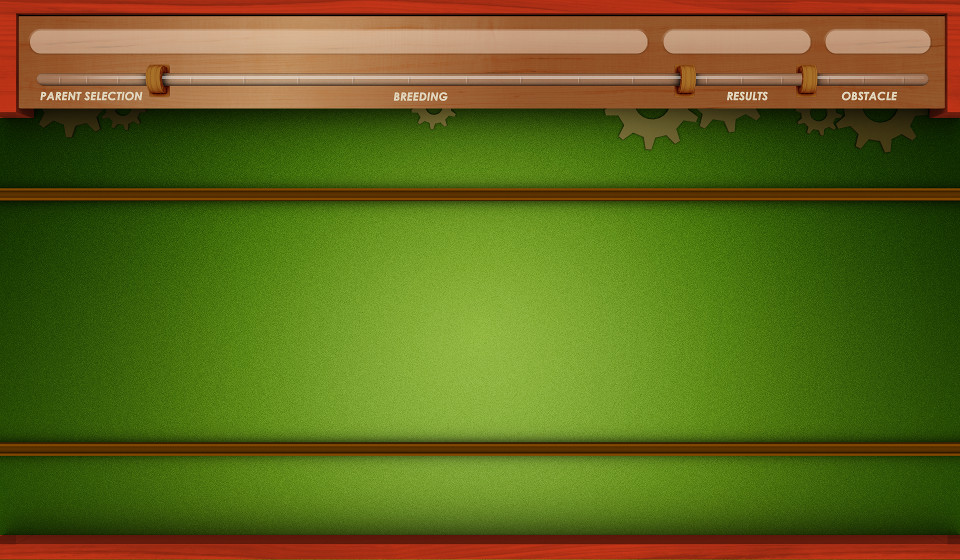
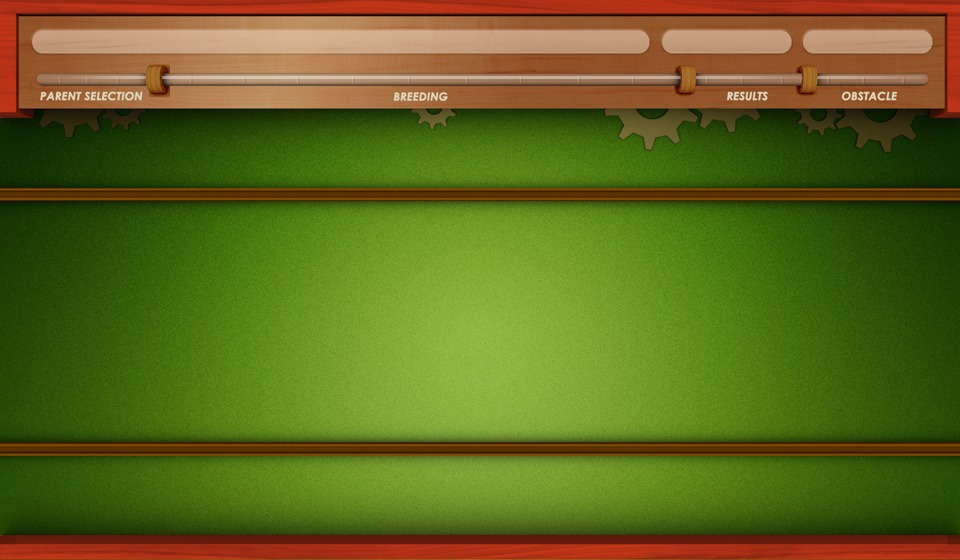
760b5cc3311d5dcce5c4b7ce375cc1256e7d6d34

diff --git a/static/css/genigames.css b/static/css/genigames.css
@@ -130,14 +130,14 @@ html body div {
   position: absolute;
   top: 33px;
   left: 666px;
-  width: 140px;
+  width: 120px;
   text-align: center;
 }
 #task-reputation-best {
   position: absolute;
   top: 33px;
-  left: 826px;
-  width: 107px;
+  left: 807px;
+  width: 120px;
   text-align: center;
 }
 #progress-bar {
@@ -524,7 +524,8 @@ html body div {
   z-index: 6000;
 }
 #completion-dialog-content {
-  background-color: #fff;
+  background-color: #233c49;
+  color: #cdcdcd;
   position: absolute;
   bottom: 5px;
   right: 5px;
@@ -2415,7 +2416,8 @@ a:hover {
   z-index: 6000;
 }
 #obstacle-course-dialog-content {
-  background-color: #fff;
+  background-color: #233c49;
+  color: #cdcdcd;
   position: absolute;
   bottom: 5px;
   right: 5px;
